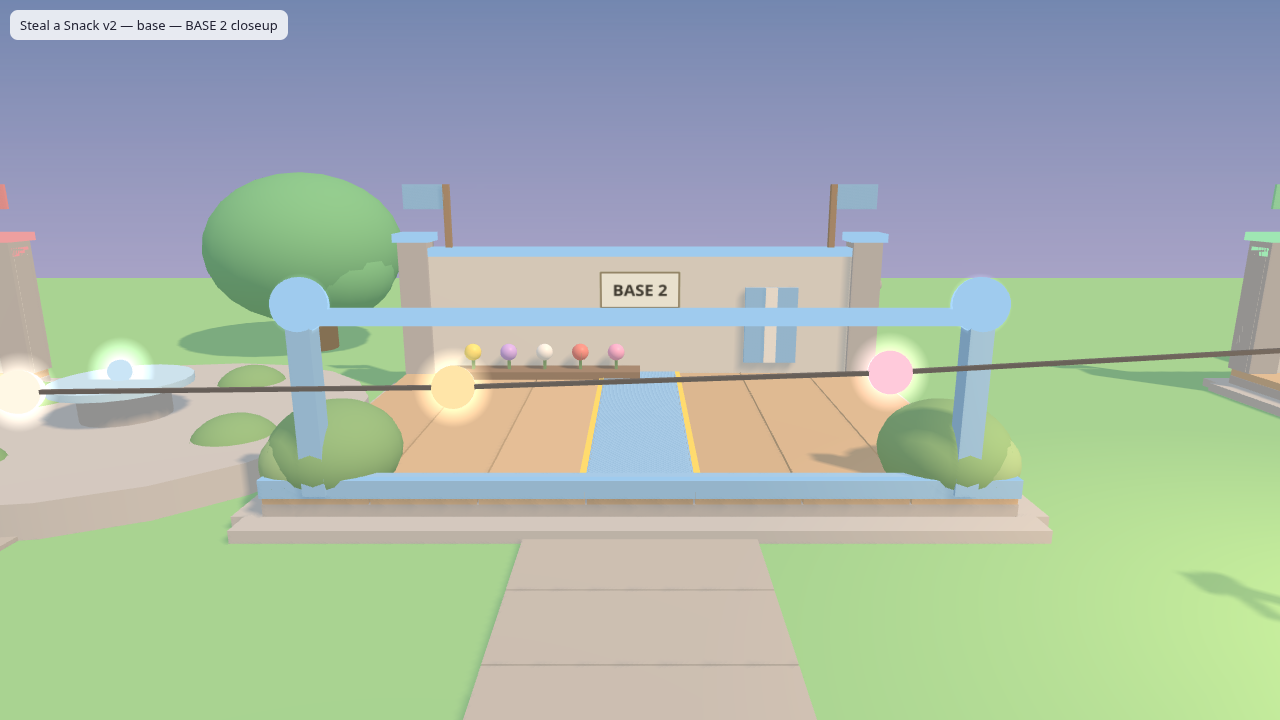
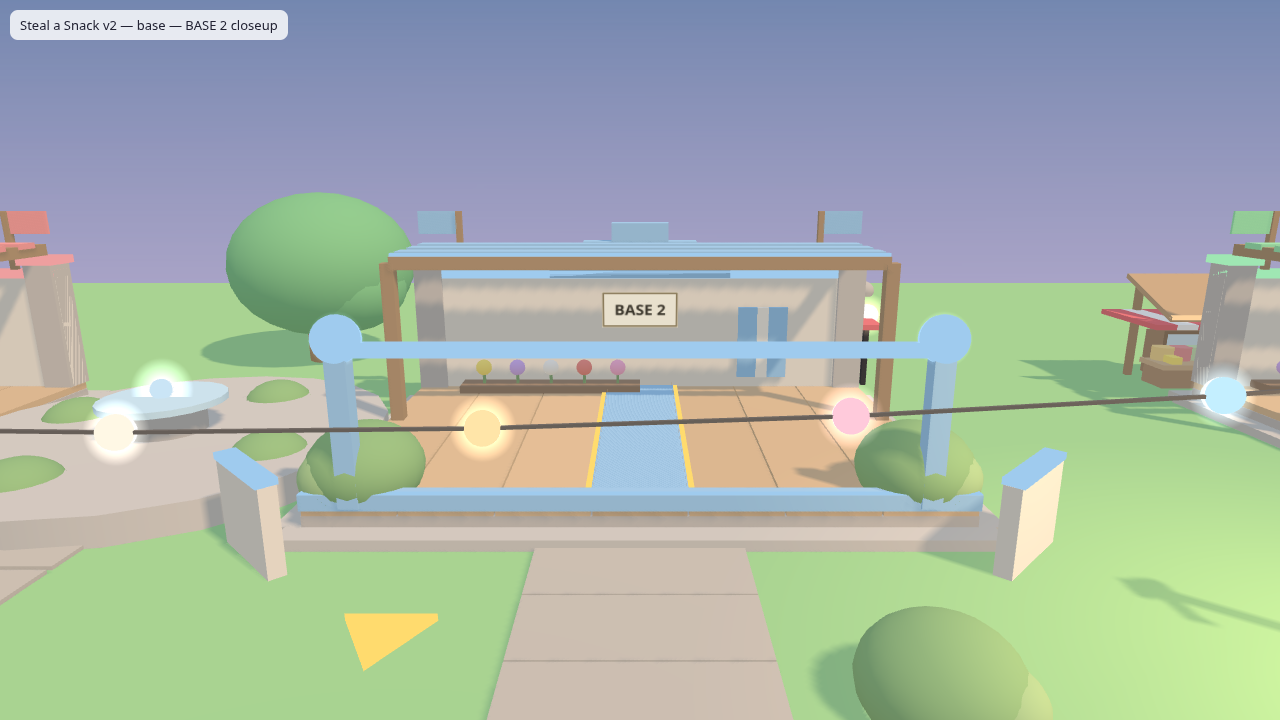
Steal a Snack v2: preview mirrors new roofs/belt/carnival + carnival screenshots

Changed region(s): [[0.0, 0.2139, 1.0, 1.0], [0.875, 0.7944, 1.0, 0.8861], [0.25, 0.825, 0.3438, 0.9472]]

diff --git a/preview/preview-characters.html b/preview/preview-characters.html
@@ -316,9 +316,10 @@ function buildSnack(def, groundY){
 }
 
 // ---- environment (v2 layout: belt X -64..64 at Z=0, 8 bases, plaza) ----
-function envMesh(geo, color, kind, x, y, z, sx, sy, sz, ry){
+function envMesh(geo, color, kind, x, y, z, sx, sy, sz, ry, rx, rz){
   const m = new THREE.Mesh(geo, mat(color, kind));
-  m.position.set(x, y, z); if (sx) m.scale.set(sx, sy, sz); if (ry) m.rotation.y = ry;
+  m.position.set(x, y, z); if (sx) m.scale.set(sx, sy, sz);
+  if (ry) m.rotation.y = ry; if (rx) m.rotation.x = rx; if (rz) m.rotation.z = rz;
   m.castShadow = true; m.receiveShadow = true; scene.add(m); return m;
 }
 const boxGeo = new THREE.BoxGeometry(1,1,1), sphGeo = new THREE.SphereGeometry(1, 20, 14), cylGeo = new THREE.CylinderGeometry(1,1,1,20);
@@ -332,6 +333,14 @@ function neonBox(x, y, z, sx, sy, sz, color){
 function neonBall(x, y, z, d, color){
   const m = new THREE.Mesh(sphGeo, new THREE.MeshBasicMaterial({ color: rgb(color) }));
   m.scale.setScalar(d); m.position.set(x, y, z); scene.add(m); return m;
+}
+// neon mesh with rotation (rim segments, wing caps, canopy trim)
+function neonMesh(geo, color, x, y, z, sx, sy, sz, rx, ry, rz){
+  const m = new THREE.Mesh(geo, new THREE.MeshBasicMaterial({ color: rgb(color) }));
+  m.position.set(x, y, z);
+  if (sx) m.scale.set(sx, sy, sz);
+  if (rx) m.rotation.x = rx; if (ry) m.rotation.y = ry; if (rz) m.rotation.z = rz;
+  scene.add(m); return m;
 }
 // soft additive halo sprite so bulbs read as LIGHTS, not just bright dots
 const haloTex = (function(){
@@ -372,13 +381,63 @@ function plateMesh(x, y, z, t, text){
   if (t < 0) m.rotation.y = Math.PI;
   scene.add(m); return m;
 }
+// "SNACK BELT" sign face: gold text on a dark board, faces ±X
+const beltSignTex = (function(){
+  const cv = document.createElement('canvas'); cv.width = 512; cv.height = 192;
+  const g = cv.getContext('2d');
+  g.fillStyle = '#232028'; g.fillRect(0,0,512,192);
+  g.strokeStyle = '#ffb428'; g.lineWidth = 8; g.strokeRect(6,6,500,180);
+  g.fillStyle = '#ffb428'; g.font = 'bold 72px system-ui, sans-serif';
+  g.textAlign = 'center'; g.textBaseline = 'middle';
+  g.fillText('SNACK BELT', 256, 100);
+  const tex = new THREE.CanvasTexture(cv); tex.encoding = THREE.sRGBEncoding;
+  return tex;
+})();
+function beltSign(x, s){
+  const m = new THREE.Mesh(new THREE.PlaneGeometry(7, 2.6), new THREE.MeshBasicMaterial({ map: beltSignTex }));
+  m.position.set(x + (s < 0 ? 0.17 : -0.17), 4.5, 0);
+  m.rotation.y = s < 0 ? Math.PI/2 : -Math.PI/2;
+  scene.add(m); return m;
+}
+// gold direction chevron: flat triangular prism, apex toward the belt
+const chevGeo = new THREE.CylinderGeometry(1.3, 1.3, 0.2, 3);
+function chevron(x, z, ry){
+  return neonMesh(chevGeo, [255,180,40], x, 0.1, z, 1, 1, 1, 0, ry, 0);
+}
 
-// ground
-envMesh(new THREE.PlaneGeometry(220, 140), rgb([89,166,77]), 'Fabric', 0, 0, 0).rotation.x = -Math.PI/2;
+// ground — wide enough to reach past the carnival landmarks (wheel -92, tower 95)
+envMesh(new THREE.PlaneGeometry(320, 240), rgb([89,166,77]), 'Fabric', 0, 0, 0).rotation.x = -Math.PI/2;
 // belt + rails
 envMesh(boxGeo, rgb([31,31,36]), 'Metal', 0, 1.5, 0, 128, 1, 6);
 envMesh(boxGeo, rgb([230,191,51]), 'Metal', 0, 2.3, 3.6, 128, 0.6, 0.6);
 envMesh(boxGeo, rgb([230,191,51]), 'Metal', 0, 2.3, -3.6, 128, 0.6, 0.6);
+// ---- belt — UNMISSABLE (Bases.luau buildBelt) ----
+// cream centre lane + gold neon strips on both side faces
+envMesh(boxGeo, rgb([232,224,205]), 'Fabric', 0, 2.03, 0, 128, 0.06, 1.6);
+neonBox(0, 1.75, 3.06, 128, 0.5, 0.12, [255,180,40]);
+neonBox(0, 1.75, -3.06, 128, 0.5, 0.12, [255,180,40]);
+// "SNACK BELT" sign gates at both ends (x=±66.5)
+for (const s of [-1, 1]){
+  const x = s * 66.5;
+  for (const pz of [-3.2, 3.2]) envMesh(boxGeo, rgb([110,78,48]), 'Fabric', x, 1.6, pz, 0.4, 3.2, 0.4);
+  envMesh(boxGeo, rgb([35,32,40]), 'Fabric', x, 4.5, 0, 0.3, 2.6, 7);
+  neonBox(x, 5.9, 0, 0.35, 0.25, 7.3, [255,180,40]);
+  neonBox(x, 3.1, 0, 0.35, 0.25, 7.3, [255,180,40]);
+  beltSign(x, s);
+}
+// gold neon chevrons on the grass pointing at the belt, both sides
+for (const side of [-1, 1]) for (let k = 0; k < 5; k++){
+  chevron(-48 + k*24, side*10, side < 0 ? 0 : Math.PI);
+}
+// cobble promenade strips flanking the belt
+for (const side of [-1, 1]) for (let p = 0; p < 8; p++){
+  envMesh(boxGeo, rgb([138,132,120]), 'Fabric', -56 + p*16, 0.05, side*4.9, 16, 0.1, 2.6);
+}
+// round belt bushes just beyond the promenade
+for (const [bx, bz] of [[-12,-7.5],[12,-7.5],[-12,7.5],[12,7.5]]){
+  envMesh(sphGeo, rgb([72,126,58]), 'Fabric', bx, 0.65, bz, 1.7, 1.3, 1.7);
+  envMesh(sphGeo, rgb([96,145,72]), 'Fabric', bx + 0.8, 0.45, bz + 0.5, 1.1, 0.9, 1.1);
+}
 // base platforms + dressing (mirrors Bases.luau buildFloor/buildWall/
 // buildFront/buildGreenery/buildStall; wall at cz∓6.6, top y=1, 20x14)
 const BASE_CENTERS = [[-54,-22],[-18,-22],[18,-22],[54,-22],[-54,22],[-18,22],[18,22],[54,22]];
@@ -429,6 +488,26 @@ BASE_CENTERS.forEach((c, i) => {
     envMesh(boxGeo, rgb([110,78,48]), 'Fabric', cx + s*8, 7.4, wz, 0.25, 3, 0.25);
     envMesh(boxGeo, rgb(accent), 'Fabric', cx + s*8 + s*0.95, 8.4, wz, 1.7, 1.0, 0.1);
   }
+  // stepped gable peak on the back wall (3 accent blocks, narrowing)
+  envMesh(boxGeo, rgb(accent), 'Fabric', cx, 6.4, wz, 8, 0.8, 0.9);
+  envMesh(boxGeo, rgb(accent), 'Fabric', cx, 7.2, wz, 5, 0.8, 0.9);
+  envMesh(boxGeo, rgb(accent), 'Fabric', cx, 8.0, wz, 2.5, 0.8, 0.9);
+  // splayed wing walls framing the entrance (±45°) + neon caps
+  for (const s of [-1, 1]){
+    envMesh(boxGeo, rgb([198,190,172]), 'Fabric', cx + s*10.8, 1.3, cz + t*8.2, 3.2, 2.6, 0.5, s*t*Math.PI/4);
+    neonMesh(boxGeo, accent, cx + s*10.8, 2.7, cz + t*8.2, 3.2, 0.2, 0.6, 0, s*t*Math.PI/4, 0);
+  }
+  // pergola roof over the back third: wood side beams + front beam +
+  // neon front edge + 3 accent slats (gaps over the back-row slots)
+  for (const s of [-1, 1]){
+    envMesh(boxGeo, rgb([110,78,48]), 'Fabric', cx + s*9.2, 7.2, cz - t*4.0, 0.5, 0.5, 5.5);
+    envMesh(boxGeo, rgb([110,78,48]), 'Fabric', cx + s*9.6, 4.1, cz - t*1.4, 0.5, 6.2, 0.5);
+  }
+  envMesh(boxGeo, rgb([110,78,48]), 'Fabric', cx, 7.2, cz - t*1.4, 19, 0.5, 0.5);
+  neonBox(cx, 7.5, cz - t*1.4, 19, 0.15, 0.25, accent);
+  for (const sz of [-5.6, -4.0, -2.4]){
+    envMesh(boxGeo, rgb(accent), 'Fabric', cx, 7.45, cz + t*sz, 19, 0.25, 0.9);
+  }
   // cobblestone path, base front edge -> belt rail (4 panels)
   for (let p = 0; p < 4; p++){
     envMesh(boxGeo, rgb([138,132,120]), 'Fabric', cx, 0.06, cz + t*(7.6 + 11*(p + 0.5)/4), 6, 0.12, 11/4 - 0.06);
@@ -445,30 +524,39 @@ BASE_CENTERS.forEach((c, i) => {
     envMesh(sphGeo, rgb([96,145,72]), 'Fabric', cx + s*8.5 + s*0.7, 1.5, cz + t*5.5 + 0.4, 1.2, 1.0, 1.2);
   }
   // market stall behind the wall (counter + lighter top + back board +
-  // framed glass window + jars + goods + red/white striped awning)
+  // framed glass window + jars + goods + red/white striped awning).
+  // Luau puts the stall to one side (sx = cx ± 8, alternating per base).
+  const sx = cx + (((i + 1) % 2 === 0) ? 1 : -1) * 8;
   const sz = cz - t * 10.2;
-  envMesh(boxGeo, rgb([120,85,55]), 'Fabric', cx, 0.5, sz, 3.6, 1.0, 1.6);
-  envMesh(boxGeo, rgb([165,125,80]), 'Fabric', cx, 1.1, sz, 3.9, 0.25, 1.9);
-  envMesh(boxGeo, rgb([105,74,48]), 'Fabric', cx, 1.6, sz - t*0.9, 3.6, 2.2, 0.2);
-  envMesh(boxGeo, rgb([170,200,215]), 'SmoothPlastic', cx, 2.0, sz - t*0.78, 1.6, 1.0, 0.08);
-  envMesh(boxGeo, rgb([80,56,36]), 'Fabric', cx, 2.55, sz - t*0.78, 1.9, 0.15, 0.12);
-  envMesh(boxGeo, rgb([80,56,36]), 'Fabric', cx, 1.45, sz - t*0.78, 1.9, 0.15, 0.12);
-  envMesh(boxGeo, rgb([80,56,36]), 'Fabric', cx - 0.9, 2.0, sz - t*0.78, 0.15, 1.25, 0.12);
-  envMesh(boxGeo, rgb([80,56,36]), 'Fabric', cx + 0.9, 2.0, sz - t*0.78, 0.15, 1.25, 0.12);
+  envMesh(boxGeo, rgb([120,85,55]), 'Fabric', sx, 0.5, sz, 3.6, 1.0, 1.6);
+  envMesh(boxGeo, rgb([165,125,80]), 'Fabric', sx, 1.1, sz, 3.9, 0.25, 1.9);
+  envMesh(boxGeo, rgb([105,74,48]), 'Fabric', sx, 1.6, sz - t*0.9, 3.6, 2.2, 0.2);
+  envMesh(boxGeo, rgb([170,200,215]), 'SmoothPlastic', sx, 2.0, sz - t*0.78, 1.6, 1.0, 0.08);
+  envMesh(boxGeo, rgb([80,56,36]), 'Fabric', sx, 2.55, sz - t*0.78, 1.9, 0.15, 0.12);
+  envMesh(boxGeo, rgb([80,56,36]), 'Fabric', sx, 1.45, sz - t*0.78, 1.9, 0.15, 0.12);
+  envMesh(boxGeo, rgb([80,56,36]), 'Fabric', sx - 0.9, 2.0, sz - t*0.78, 0.15, 1.25, 0.12);
+  envMesh(boxGeo, rgb([80,56,36]), 'Fabric', sx + 0.9, 2.0, sz - t*0.78, 0.15, 1.25, 0.12);
   const jarTints = [[220,170,80],[200,90,90],[150,190,120]];
   for (let j = 0; j < 3; j++){
-    envMesh(cylGeo, rgb(jarTints[j]), 'SmoothPlastic', cx - 1.2 + j*0.9, 1.55, sz - 0.4, 0.5, 0.7, 0.5);
+    envMesh(cylGeo, rgb(jarTints[j]), 'SmoothPlastic', sx - 1.2 + j*0.9, 1.55, sz - 0.4, 0.5, 0.7, 0.5);
   }
-  envMesh(boxGeo, rgb([165,135,95]), 'Fabric', cx + 1.2, 1.5, sz + 0.4, 0.8, 0.6, 0.8);
-  envMesh(boxGeo, rgb([235,200,60]), 'SmoothPlastic', cx - 1.2, 1.4, sz + 0.45, 0.5, 0.35, 0.7);
+  envMesh(boxGeo, rgb([165,135,95]), 'Fabric', sx + 1.2, 1.5, sz + 0.4, 0.8, 0.6, 0.8);
+  envMesh(boxGeo, rgb([235,200,60]), 'SmoothPlastic', sx - 1.2, 1.4, sz + 0.45, 0.5, 0.35, 0.7);
   for (let k = 0; k < 7; k++){ // striped awning
-    envMesh(boxGeo, rgb(k % 2 ? [235,235,230] : [200,50,55]), 'Fabric', cx - 3 + k, 3.4, sz, 1, 0.25, 4.5);
+    envMesh(boxGeo, rgb(k % 2 ? [235,235,230] : [200,50,55]), 'Fabric', sx - 3 + k, 3.4, sz, 1, 0.25, 4.5);
+  }
+  // stall canopy (atap): sloped wood slab over the stall + warm neon
+  // trim on its low edge + rear posts carrying the high back edge
+  envMesh(boxGeo, rgb([140,100,62]), 'Fabric', sx, 4.5, sz - t*0.2, 5.0, 0.25, 4.2, 0, t*0.4);
+  neonMesh(boxGeo, [255,167,87], sx, 3.78, sz + t*1.7, 5.0, 0.15, 0.2, t*0.4, 0, 0);
+  for (const px of [-1.8, 1.8]){
+    envMesh(boxGeo, rgb([110,78,48]), 'Fabric', sx + px, 2.65, sz - t*2.0, 0.3, 5.3, 0.3);
   }
   // warm stall lamp: dark pole + glowing bulb + halo
-  envMesh(boxGeo, rgb([55,55,60]), 'Metal', cx + 3.4, 1.7, sz, 0.25, 3.4, 0.25);
+  envMesh(boxGeo, rgb([55,55,60]), 'Metal', sx + 3.4, 1.7, sz, 0.25, 3.4, 0.25);
   const lamp = new THREE.Mesh(sphGeo, new THREE.MeshStandardMaterial({ color: 0xffd9a0, emissive: 0xffb45e, emissiveIntensity: 1.6 }));
-  lamp.scale.setScalar(0.55); lamp.position.set(cx + 3.4, 3.6, sz); scene.add(lamp);
-  halo(cx + 3.4, 3.6, sz, 2.2, [255,167,87]);
+  lamp.scale.setScalar(0.55); lamp.position.set(sx + 3.4, 3.6, sz); scene.add(lamp);
+  halo(sx + 3.4, 3.6, sz, 2.2, [255,167,87]);
 });
 // layered trees (trunk + 3 canopy volumes)
 const TREES = [[-72,-38],[-36,-38],[36,-38],[72,-38],[-72,38],[-36,38],[36,38],[72,38],[-85,-45],[85,-45],[-85,45],[85,45]];
@@ -560,6 +648,74 @@ for (let p = 0; p < 4; p++){
   envMesh(boxGeo, rgb([138,132,120]), 'Fabric', 36, 0.06, 5 + p*3.2, 4, 0.12, 3);
 }
 
+// ---- carnival: ferris wheel (-92,15) + tower (95,-25) ----
+// (Bases.luau buildFerrisWheel / buildTower; both stand in the
+// background, outside the play area)
+const RAINBOW = [[255,80,80],[255,200,60],[90,220,110],[90,200,255],[180,120,255],[255,130,190]];
+(function(){
+  const hx = -92, hy = 17, hz = 15, R = 12.5;
+  envMesh(boxGeo, rgb([140,135,128]), 'Fabric', hx, 0.25, hz, 8, 0.5, 16); // platform
+  // A-frame legs: base (hx, 0, hz±7.5) to hub, tilted about X
+  for (const s of [-1, 1]){
+    envMesh(boxGeo, rgb([70,70,78]), 'Metal', hx, 8.5, hz + s*3.75, 0.9, 18.6, 0.9, 0, -s*0.419);
+  }
+  envMesh(boxGeo, rgb([70,70,78]), 'Metal', hx, 8.5, hz, 0.7, 0.7, 15); // crossbar
+  // hub: cylinder along X + gold neon orb
+  envMesh(cylGeo, rgb([55,55,60]), 'Metal', hx, hy, hz, 2.4, 1.2, 2.4, 0, 0, Math.PI/2);
+  neonBall(hx, hy, hz, 1.2, RAINBOW[1]);
+  halo(hx, hy, hz, 3.0, RAINBOW[1]);
+  // rim: 12 rainbow neon segments (dodecagon) + 12 bulbs at the vertices
+  for (let i = 1; i <= 12; i++){
+    const a = (i - 0.5) * Math.PI/6;
+    neonMesh(boxGeo, RAINBOW[(i - 1) % 6], hx, hy + Math.cos(a)*R, hz + Math.sin(a)*R, 0.5, 6.6, 0.5, a + Math.PI/2, 0, 0);
+    const v = (i - 1) * Math.PI/6;
+    neonBall(hx, hy + Math.cos(v)*R, hz + Math.sin(v)*R, 0.55, RAINBOW[(i + 2) % 6]);
+    halo(hx, hy + Math.cos(v)*R, hz + Math.sin(v)*R, 1.1, RAINBOW[(i + 2) % 6]);
+  }
+  // spokes: 8 radial metal bars, hub to rim
+  for (let i = 1; i <= 8; i++){
+    const a = (i - 1) * Math.PI/4;
+    envMesh(boxGeo, rgb([90,90,100]), 'Metal', hx, hy + Math.cos(a)*(R/2), hz + Math.sin(a)*(R/2), 0.35, R, 0.35, 0, a);
+  }
+  // cabins: 8 colourful cars on the rim + a neon bulb each
+  const cabinColors = [[255,90,90],[255,200,60],[90,220,110],[90,200,255],[180,120,255],[255,130,190],[255,150,60],[120,255,200]];
+  for (let i = 1; i <= 8; i++){
+    const a = (i - 1) * Math.PI/4 + Math.PI/8;
+    const cy = hy + Math.cos(a)*11, cz = hz + Math.sin(a)*11;
+    envMesh(boxGeo, rgb(cabinColors[i - 1]), 'Fabric', hx, cy, cz, 2.4, 2.2, 2.2);
+    neonBall(hx, cy + 1.3, cz, 0.4, RAINBOW[(i - 1) % 6]);
+  }
+  // pennant flags on the platform corners
+  for (const sx of [-1, 1]) for (const sz of [-1, 1]){
+    const px = hx + sx*3.5, pz = hz + sz*7;
+    envMesh(boxGeo, rgb([110,78,48]), 'Fabric', px, 1.75, pz, 0.2, 3.5, 0.2);
+    envMesh(boxGeo, rgb(RAINBOW[(sx + sz + 4) % 6]), 'Fabric', px + sx*0.7, 3.1, pz, 1.3, 0.8, 0.08);
+  }
+})();
+(function(){
+  const tx = 95, tz = -25;
+  envMesh(boxGeo, rgb([140,135,128]), 'Fabric', tx, 0.3, tz, 10, 0.6, 10); // platform
+  const widths = [7, 5.5, 4], heights = [9, 8, 7];
+  const tierColors = [[198,190,172],[210,202,184],[222,214,196]];
+  let y = 0.6;
+  for (let i = 0; i < 3; i++){
+    const w = widths[i], h = heights[i];
+    envMesh(boxGeo, rgb(tierColors[i]), 'Fabric', tx, y + h/2, tz, w, h, w);
+    y += h;
+    neonBox(tx, y, tz, w + 0.4, 0.4, w + 0.4, RAINBOW[(i + 3) % 6]); // trim ring
+  }
+  // warm neon windows + door on the west face (toward the plaza)
+  for (const wy of [3.5, 6, 8.5]) neonBox(tx - 3.55, wy, tz, 0.15, 1.2, 0.9, [255,167,87]);
+  envMesh(boxGeo, rgb([60,45,35]), 'Fabric', tx - 3.55, 2.1, tz, 0.2, 3, 1.8);
+  // glowing cyan beacon orb + the tower's PointLight + gold flag
+  neonBall(tx, y + 0.8, tz, 1.6, [140,220,255]);
+  halo(tx, y + 0.8, tz, 4.5, [140,220,255]);
+  const beacon = new THREE.PointLight(rgb([140,220,255]), 1.0, 24, 1);
+  beacon.position.set(tx, y + 0.8, tz); scene.add(beacon);
+  envMesh(boxGeo, rgb([110,78,48]), 'Fabric', tx + 1.2, y + 1.5, tz, 0.25, 3, 0.25);
+  envMesh(boxGeo, rgb(RAINBOW[1]), 'Fabric', tx + 2.3, y + 2.4, tz, 2.0, 1.2, 0.1);
+})();
+
 // dusk lighting for the env views: sun low + warm, sky deep blue to warm
 // horizon, so the neon trim and the lamp/string lights actually read.
 function setDusk(){
@@ -608,15 +764,24 @@ if (VIEW === 'closeup'){
   // north + south bases, lamp posts and string lights in frame
   document.getElementById('viewname').textContent = 'env — plaza + bases';
   setDusk();
-  camera.position.set(44, 28, 54);
-  camera.lookAt(-8, 2, -12);
+  camera.position.set(50, 32, 60);
+  camera.lookAt(-8, 2, -10);
 } else if (VIEW === 'base'){
   // closeup from the belt looking at north base 2 (blue): arch, neon
   // trim, runner and wall crown in frame
   document.getElementById('viewname').textContent = 'base — BASE 2 closeup';
   setDusk();
-  camera.position.set(-18, 9, 4);
-  camera.lookAt(-18, 3, -22);
+  camera.position.set(-18, 10.5, 6);
+  camera.lookAt(-18, 3.5, -23);
+} else if (VIEW === 'carnival'){
+  // wide shot from the south-east: ferris wheel (west) + tower (east)
+  // with the plaza between them; dusk so the rainbow neon reads.
+  // Fog pushed out for this long shot, or the landmarks wash out.
+  document.getElementById('viewname').textContent = 'carnival — wheel + tower';
+  setDusk();
+  scene.fog = new THREE.Fog(0x8a7a9e, 130, 340);
+  camera.position.set(48, 36, 132);
+  camera.lookAt(0, 11, -5);
 } else if (VIEW === 'hero'){
   placeRow();
   camera.position.set(38, 22, 42);
